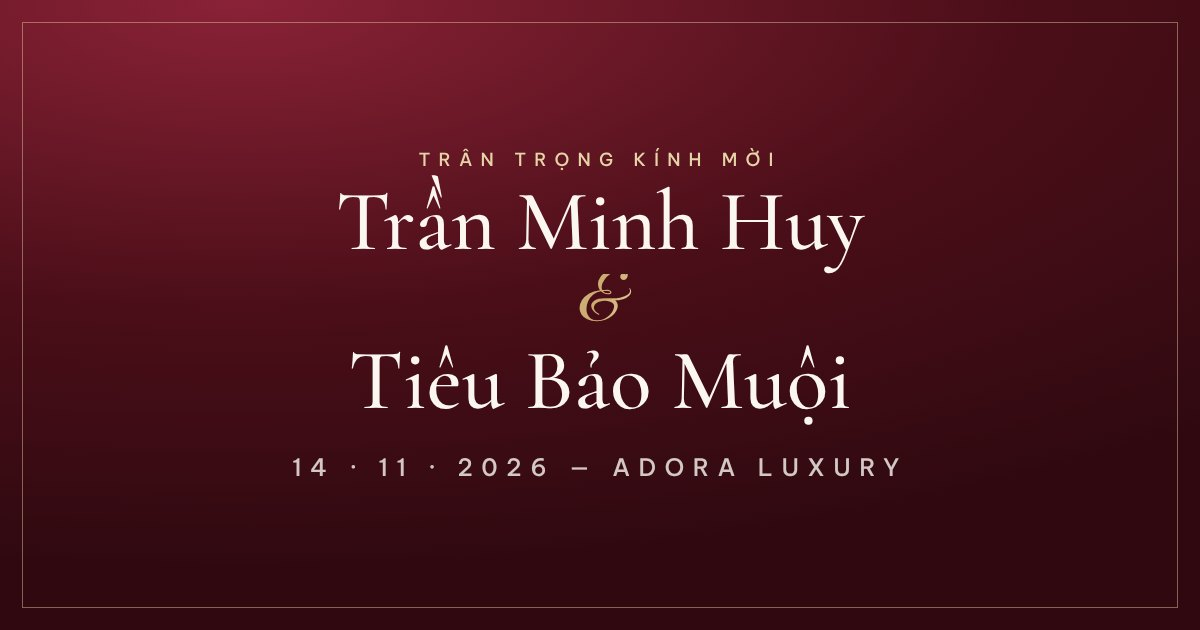
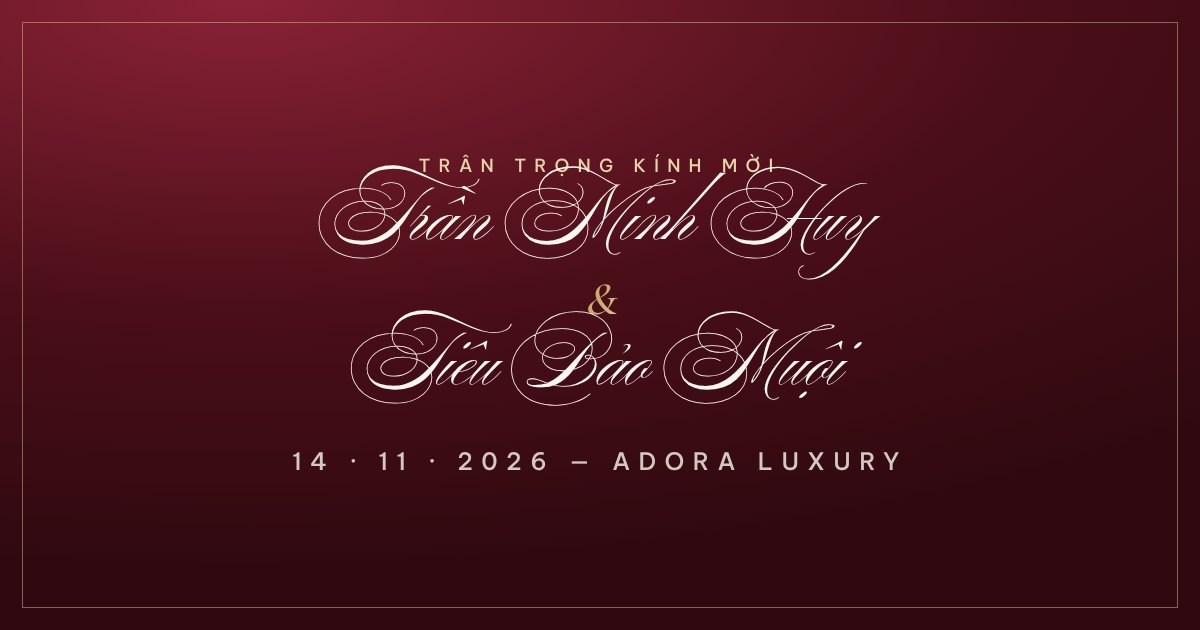
Wedding: flowing Ballet script for the couple's names
- Replace Great Vibes with Ballet (Spencerian, Vietnamese subset) as the
  script face; names use it on the static card, interactive cover, landing
  hero, family cards, footer and Studio card; PNG export embeds it
- Saved designs from before (version < 2) switch to the script name style;
  Designer lists 'Thư pháp bay lượn' first
- Ampersands in the monogram and between names use serif italic so they
  stay legible next to the swashes; sizes tuned so names never wrap and the
  9:16 card keeps its bottom padding
- og-cover.jpg regenerated with the new lettering

Claude-Session: https://claude.ai/code/session_016FdmhPoKk9a9FLfvQwQH2M

diff --git a/wedding/src/components/invitation/InvitationCard.tsx b/wedding/src/components/invitation/InvitationCard.tsx
@@ -104,18 +104,18 @@ export function InvitationCard({
           </div>
         )}
 
-        <div className={cx('mt-[14px] w-full', hl('couple'))}>
+        <div className={cx('mt-[16px] w-full', hl('couple'))}>
           <CoupleName name={wedding.groom.fullName} role={wedding.groom.role} style={design.nameStyle} />
-          <div className="my-[2px] flex items-center justify-center gap-4 text-[color:var(--line)]">
+          <div className="my-0 flex items-center justify-center gap-4 text-[color:var(--line)]">
             <span className="h-px w-16 bg-current opacity-60" />
-            <span className="font-script text-[30px] leading-none text-[color:var(--accent)]">&amp;</span>
+            <span className="font-serif text-[26px] leading-none text-[color:var(--accent)] italic">&amp;</span>
             <span className="h-px w-16 bg-current opacity-60" />
           </div>
           <CoupleName name={wedding.bride.fullName} role={wedding.bride.role} style={design.nameStyle} />
         </div>
 
         {s.families && (
-          <div className={cx('mt-[16px] grid w-full grid-cols-2 gap-x-6', hl('families'))}>
+          <div className={cx('mt-[12px] grid w-full grid-cols-2 gap-x-6', hl('families'))}>
             {[wedding.families.groom, wedding.families.bride].map((f) => (
               <div key={f.side} className="text-center">
                 <p className="font-sans text-[9.5px] font-semibold tracking-[0.34em] text-[color:var(--accent)] uppercase">{f.label}</p>
@@ -137,7 +137,7 @@ export function InvitationCard({
         )}
 
         {s.ceremony && (
-          <div className={cx('mt-[14px] w-full', hl('ceremony'))}>
+          <div className={cx('mt-[10px] w-full', hl('ceremony'))}>
             <div className="flex items-center gap-3 text-[color:var(--line)]">
               <span className="h-px flex-1 bg-current opacity-60" />
               <span className="font-sans text-[9.5px] font-semibold tracking-[0.34em] text-[color:var(--accent)] uppercase">{ceremony.title}</span>
@@ -234,7 +234,7 @@ function CoupleName({ name, role, style }: { name: string; role: string; style: 
       {style === 'serif' ? (
         <p className="font-serif text-[44px] leading-[1.1] font-medium text-[color:var(--accent)]">{name}</p>
       ) : (
-        <p className="font-script text-[50px] leading-[1.15] text-[color:var(--accent)]">{name}</p>
+        <p className="font-script text-[46px] leading-[1.02] whitespace-nowrap text-[color:var(--accent)]">{name}</p>
       )}
       <p className="font-sans text-[9.5px] font-medium tracking-[0.36em] text-[color:var(--ink-soft)] uppercase">{role}</p>
     </div>

diff --git a/wedding/src/pages/Landing.tsx b/wedding/src/pages/Landing.tsx
@@ -23,14 +23,14 @@ export default function Landing() {
       <section className="relative mx-auto grid min-h-[100svh] max-w-7xl items-center gap-10 px-4 pt-24 pb-14 sm:px-8 lg:grid-cols-12 lg:gap-6 lg:pt-20">
         <div className="lg:col-span-7">
           <p className="eyebrow animate-fade-up text-champagne-deep">The Art of Forever — H&amp;M Wedding</p>
-          <h1 className="mt-6 font-serif leading-[0.95] font-medium text-burgundy-800">
-            <span className="animate-fade-up block text-[clamp(46px,7vw,100px)]" style={{ animationDelay: '120ms' }}>
+          <h1 className="mt-6 font-script leading-[1.15] text-burgundy-800">
+            <span className="animate-fade-up block text-[clamp(38px,10.5vw,76px)] whitespace-nowrap lg:text-[clamp(40px,5.2vw,76px)]" style={{ animationDelay: '120ms' }}>
               {wedding.groom.fullName}
             </span>
-            <span className="animate-fade-up my-1 block pl-[8%] font-script text-[clamp(44px,7vw,88px)] leading-none text-champagne-deep" style={{ animationDelay: '260ms' }}>
+            <span className="animate-fade-up my-0 block pl-[6%] font-serif text-[clamp(36px,4vw,56px)] leading-none italic text-champagne-deep" style={{ animationDelay: '260ms' }}>
               &amp;
             </span>
-            <span className="animate-fade-up block pl-[10%] text-[clamp(46px,7vw,100px)] lg:whitespace-nowrap" style={{ animationDelay: '380ms' }}>
+            <span className="animate-fade-up block pl-[10%] text-[clamp(38px,10.5vw,76px)] whitespace-nowrap lg:text-[clamp(40px,5.2vw,76px)]" style={{ animationDelay: '380ms' }}>
               {wedding.bride.fullName}
             </span>
           </h1>
@@ -111,7 +111,7 @@ export default function Landing() {
                     </p>
                     <div className="mt-10 border-t border-champagne/40 pt-6">
                       <p className="eyebrow text-espresso-soft">{child.role}</p>
-                      <p className="mt-2 font-serif text-[34px] leading-tight font-medium text-burgundy-700">{child.fullName}</p>
+                      <p className="mt-2 font-script text-[34px] leading-[1.3] whitespace-nowrap text-burgundy-700 sm:text-[40px]">{child.fullName}</p>
                     </div>
                   </Reveal>
                 );

diff --git a/wedding/src/components/invitation/InteractiveInvitation.tsx b/wedding/src/components/invitation/InteractiveInvitation.tsx
@@ -140,12 +140,12 @@ function Story({ guestName, text: copy }: { guestName: string; text: typeof impo
         <p className="animate-fade-up mt-1 font-sans text-[13px] font-semibold tracking-[0.16em] text-burgundy-700 uppercase" style={{ animationDelay: '200ms' }}>
           {copy.announceEvent}
         </p>
-        <h1 className="animate-fade-up mt-8 font-serif text-[44px] leading-[1.05] font-medium text-burgundy-700 sm:text-[56px]" style={{ animationDelay: '300ms' }}>
+        <h1 className="animate-fade-up mt-8 font-script text-[clamp(36px,11vw,60px)] leading-[1.25] whitespace-nowrap text-burgundy-700" style={{ animationDelay: '300ms' }}>
           {wedding.groom.fullName}
         </h1>
         <p className="eyebrow mt-2 text-espresso-soft">{wedding.groom.role}</p>
-        <p className="my-3 font-script text-[44px] leading-none text-champagne-deep">&amp;</p>
-        <h1 className="animate-fade-up font-serif text-[44px] leading-[1.05] font-medium text-burgundy-700 sm:text-[56px]" style={{ animationDelay: '420ms' }}>
+        <p className="my-1 font-serif text-[34px] leading-none text-champagne-deep italic">&amp;</p>
+        <h1 className="animate-fade-up font-script text-[clamp(36px,11vw,60px)] leading-[1.25] whitespace-nowrap text-burgundy-700" style={{ animationDelay: '420ms' }}>
           {wedding.bride.fullName}
         </h1>
         <p className="eyebrow mt-2 text-espresso-soft">{wedding.bride.role}</p>

diff --git a/wedding/src/components/site/SiteNav.tsx b/wedding/src/components/site/SiteNav.tsx
@@ -3,6 +3,7 @@ import { Link, NavLink } from 'react-router-dom';
 import { Menu, X } from 'lucide-react';
 import { cx } from '../../lib/format';
 import { Monogram } from '../ui/Monogram';
+import { wedding } from '../../data/wedding';
 
 const links = [
   { to: '/#gia-dinh', label: 'Gia đình' },
@@ -71,7 +72,10 @@ export function SiteFooter() {
   return (
     <footer className="border-t border-champagne/40 bg-ivory px-4 py-12 text-center sm:px-8">
       <Monogram className="mx-auto size-14 text-[56px]" tone="burgundy" />
-      <p className="mt-4 font-serif text-[20px] text-burgundy-800">Trần Minh Huy &amp; Tiêu Bảo Muội</p>
+      <p className="mt-4 font-script text-[30px] leading-[1.35] text-burgundy-800">
+        <span className="whitespace-nowrap">{wedding.groom.fullName}</span> <span className="font-serif text-[22px] text-champagne-deep italic">&amp;</span>{' '}
+        <span className="whitespace-nowrap">{wedding.bride.fullName}</span>
+      </p>
       <p className="eyebrow mt-2 text-espresso-soft">14 · 11 · 2026 — The Art of Forever</p>
       <div className="mt-6 flex justify-center gap-6 text-[13px] text-espresso-soft">
         <Link to="/xem-truoc" className="hover:text-burgundy-700">Thiệp mời</Link>

diff --git a/wedding/src/components/studio/StudioLayout.tsx b/wedding/src/components/studio/StudioLayout.tsx
@@ -82,10 +82,10 @@ function StudioShell() {
       <LogoutButton />
       <div className="m-4 mt-0 rounded-2xl velvet p-5 text-ivory">
         <p className="eyebrow text-champagne-light/75">Tiệc cưới</p>
-        <p className="mt-2 font-serif text-[18px] leading-tight">
+        <p className="mt-2 font-script text-[24px] leading-[1.3]">
           {wedding.groom.fullName}
           <br />
-          <span className="font-script text-[22px] text-champagne-light">&amp;</span> {wedding.bride.fullName}
+          <span className="font-serif text-[18px] text-champagne-light italic">&amp;</span> {wedding.bride.fullName}
         </p>
         {days >= 0 && <p className="mt-3 text-[12px] text-ivory/70">Còn {days} ngày · 14.11.2026</p>}
         <Link to="/" className="mt-4 inline-flex items-center gap-1.5 text-[12px] font-medium text-champagne-light hover:text-ivory">

diff --git a/wedding/src/data/design.ts b/wedding/src/data/design.ts
@@ -5,6 +5,8 @@ export type Palette = 'burgundy' | 'champagne' | 'espresso';
 export type NameStyle = 'serif' | 'script';
 
 export interface InvitationDesign {
+  /** 2: tên cô dâu chú rể mặc định dùng thư pháp Ballet. */
+  version?: number;
   templateName: string;
   palette: Palette;
   nameStyle: NameStyle;
@@ -37,9 +39,10 @@ export const palettes: Array<{ id: Palette; name: string; swatch: [string, strin
 ];
 
 export const defaultDesign: InvitationDesign = {
+  version: 2,
   templateName: 'Forever Burgundy',
   palette: 'burgundy',
-  nameStyle: 'serif',
+  nameStyle: 'script',
   guestNameScale: 1,
   sections: { monogram: true, announce: true, couple: true, families: true, ceremony: true, guest: true, reception: true, thanks: true },
   text: { ...copy },

diff --git a/wedding/src/lib/exporter.tsx b/wedding/src/lib/exporter.tsx
@@ -10,7 +10,7 @@ export const EXPORT_SCALE = 2;
 export const EXPORT_W = CARD_W * EXPORT_SCALE;
 export const EXPORT_H = CARD_H * EXPORT_SCALE;
 
-const FAMILIES = ['Cormorant Garamond', 'Be Vietnam Pro', 'Great Vibes'];
+const FAMILIES = ['Cormorant Garamond', 'Be Vietnam Pro', 'Ballet'];
 
 export function slugify(s: string) {
   return s
@@ -85,7 +85,7 @@ async function ensureFontsLoaded() {
     '400 12px "Be Vietnam Pro"',
     '500 12px "Be Vietnam Pro"',
     '600 12px "Be Vietnam Pro"',
-    '400 30px "Great Vibes"',
+    '400 48px "Ballet"',
   ];
   await Promise.all(samples.map((f) => document.fonts.load(f, 'Trần Ước Đặng ỹ')));
   await document.fonts.ready;

diff --git a/wedding/src/components/ui/Monogram.tsx b/wedding/src/components/ui/Monogram.tsx
@@ -20,7 +20,7 @@ export function Monogram({ className, tone = 'foil', ring = true }: { className?
         <span className={cx('font-serif font-medium', text)} style={{ fontSize: '1em' }}>
           {wedding.monogram.left}
         </span>
-        <span className={cx('font-script -mx-[0.04em] translate-y-[0.06em]', text)} style={{ fontSize: '0.62em' }}>
+        <span className={cx('font-serif italic -mx-[0.02em] translate-y-[0.02em]', text)} style={{ fontSize: '0.62em' }}>
           &amp;
         </span>
         <span className={cx('font-serif font-medium', text)} style={{ fontSize: '1em' }}>

diff --git a/wedding/src/components/studio/StudioContext.tsx b/wedding/src/components/studio/StudioContext.tsx
@@ -30,6 +30,8 @@ export function normalizeDesign(d: Partial<InvitationDesign> | null | undefined)
   return {
     ...defaultDesign,
     ...d,
+    // Thiết kế lưu trước phiên bản 2 chuyển sang tên thư pháp.
+    ...((d.version ?? 1) < 2 ? { version: 2, nameStyle: 'script' as const } : {}),
     sections: { ...defaultDesign.sections, ...(d.sections ?? {}) },
     text: { ...defaultDesign.text, ...(d.text ?? {}) },
   };

diff --git a/wedding/src/pages/studio/Designer.tsx b/wedding/src/pages/studio/Designer.tsx
@@ -230,8 +230,8 @@ function Properties({
               value={design.nameStyle}
               onChange={(v) => update({ nameStyle: v })}
               options={[
+                { value: 'script', label: 'Thư pháp bay lượn' },
                 { value: 'serif', label: 'Serif cổ điển' },
-                { value: 'script', label: 'Thư pháp' },
               ]}
             />
           </div>

diff --git a/wedding/src/main.tsx b/wedding/src/main.tsx
@@ -9,7 +9,7 @@ import '@fontsource/cormorant-garamond/300.css';
 import '@fontsource/be-vietnam-pro/400.css';
 import '@fontsource/be-vietnam-pro/500.css';
 import '@fontsource/be-vietnam-pro/600.css';
-import '@fontsource/great-vibes/400.css';
+import '@fontsource/ballet/400.css';
 import './styles/index.css';
 import App from './App';
 

diff --git a/wedding/src/styles/index.css b/wedding/src/styles/index.css
@@ -24,7 +24,7 @@
 
   --font-serif: 'Cormorant Garamond', 'Times New Roman', serif;
   --font-sans: 'Be Vietnam Pro', system-ui, sans-serif;
-  --font-script: 'Great Vibes', cursive;
+  --font-script: 'Ballet', cursive;
 
   --ease-silk: cubic-bezier(0.22, 1, 0.36, 1);
 }
